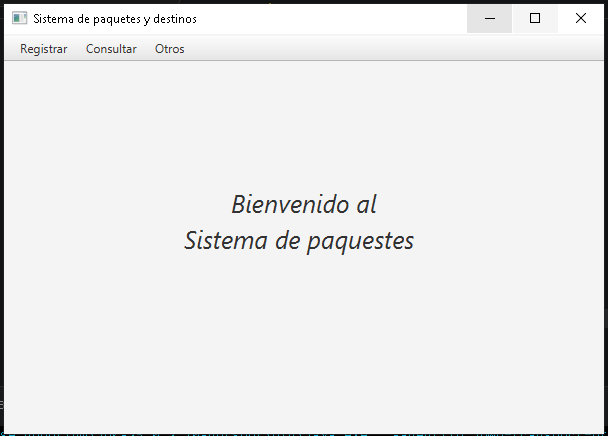
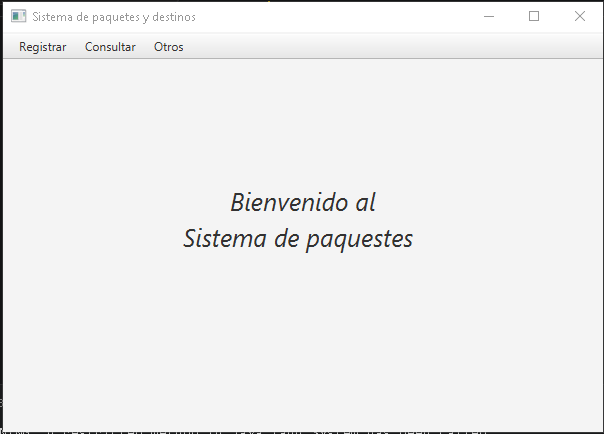
Agregar evidencias

Changed region(s): [[0.0, 0.0, 1.0, 1.0], [0.298, 0.4194, 0.6854, 0.5991]]

diff --git a/src/src/controller/ConsultaPaquetes.java b/src/src/controller/ConsultaPaquetes.java
@@ -1,14 +1,12 @@
 package controller;
 
 import java.util.ArrayList;
-import java.util.List;
 
 import javafx.fxml.FXML;
 import javafx.scene.control.Button;
 import javafx.scene.control.Label;
 import javafx.scene.control.ListView;
 import javafx.scene.layout.VBox;
-import model.Destino;
 import model.Paquete;
 import utils.ArchivoUtil;
 
@@ -37,15 +35,8 @@ public class ConsultaPaquetes {
     public void Cargar(){
         ArrayList<Paquete> paquetes = filePaq.LeerPaquete();
         ArrayList<String> StrDestinos = Convertir(paquetes);
-
-        if(!paquetes.isEmpty()){
-            ListView.getItems().addAll(StrDestinos);
-            lbMensajeUsur.setText("Paquetes cargados");    
-        }
-        else{
-            lbMensajeUsur.setText("El registro de paquetes esta vacio");
-        }
-        
+        ListView.getItems().addAll(StrDestinos);
+        lbMensajeUsur.setText("Paquetes cargados");
     }
 
     private ArrayList<String> Convertir(ArrayList<Paquete> paquetes){

diff --git a/src/src/utils/ArchivoUtil.java b/src/src/utils/ArchivoUtil.java
@@ -39,6 +39,7 @@ public class ArchivoUtil {
         try{
             FileWriter write = new FileWriter(archivo,true);
             write.write(paquete.GetCodigo()+";"+paquete.GetDestinatario()+";"+paquete.GetPeso()+";"+paquete.GetDestino());
+            write.write("\n");
             write.close();
 
         }catch(IOException e) {